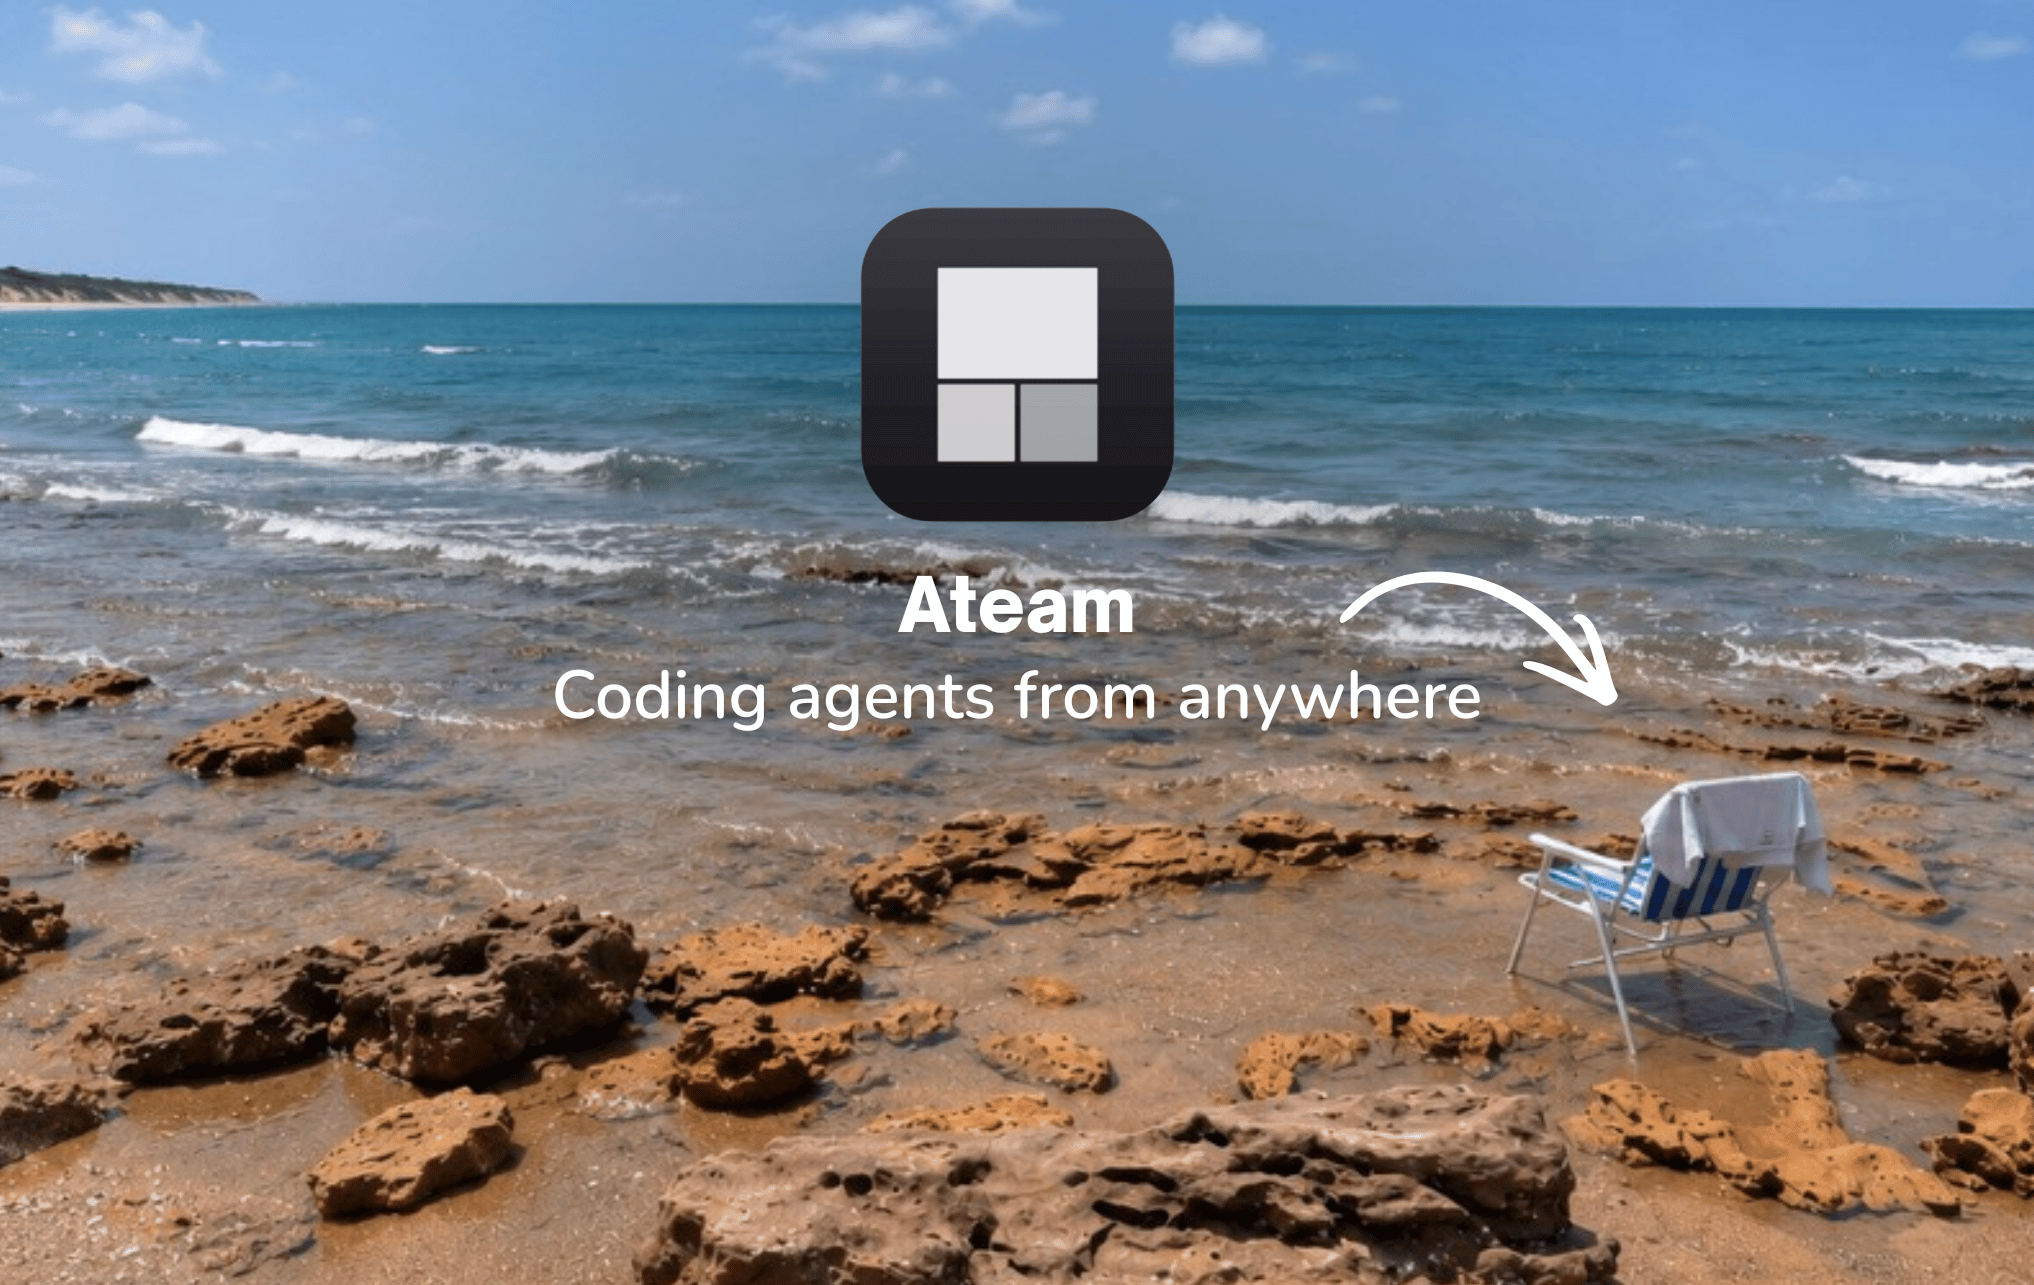
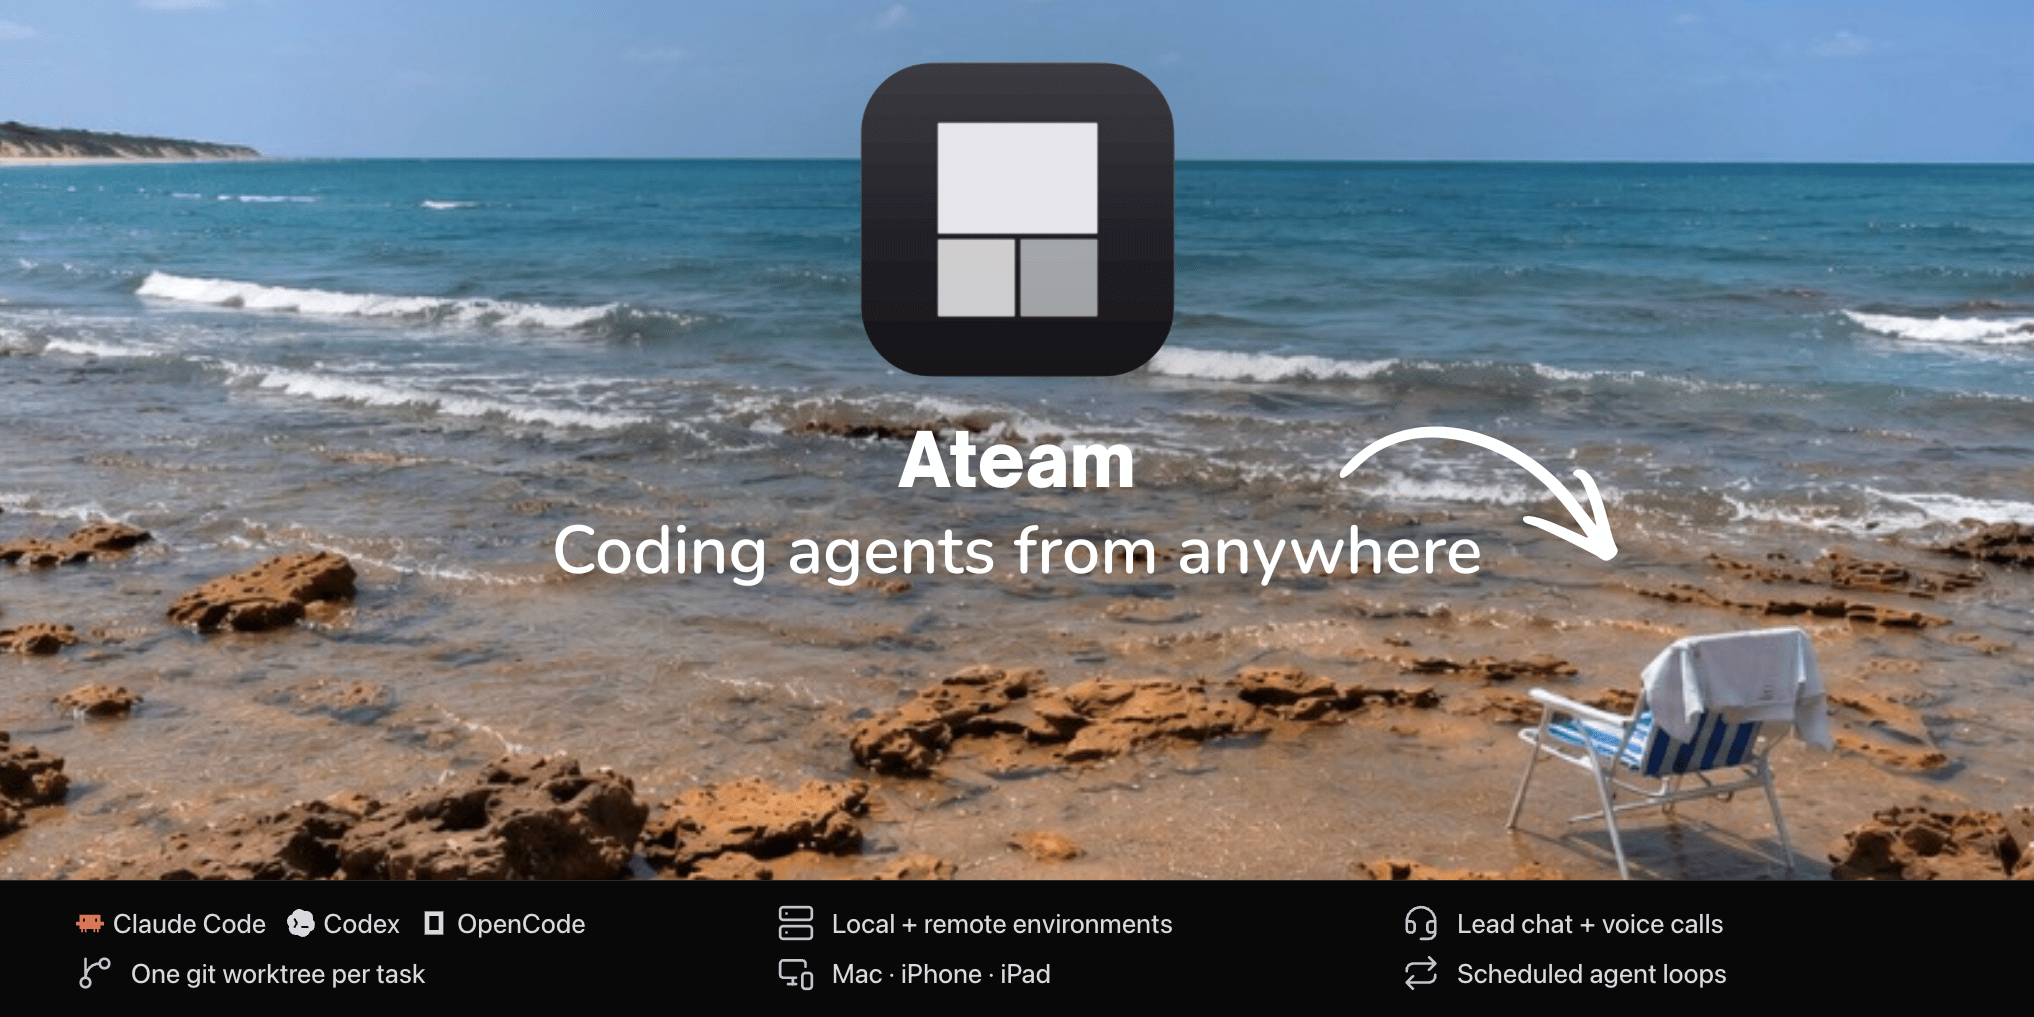
Show Ateam features in the README cover

diff --git a/README.md b/README.md
@@ -1,5 +1,5 @@
 <p align="center">
-  <img src="./assets/cover.png" alt="Ateam — coding agents from anywhere: the Ateam app icon over a beach with an empty deck chair by the sea" width="900" />
+  <img src="./assets/cover.png" alt="Ateam — coding agents from anywhere: Claude Code, Codex and OpenCode, one git worktree per task, local and remote environments, Mac, iPhone and iPad access, Lead chat and voice calls, and scheduled agent loops." width="900" />
 </p>
 
 <p align="center">
